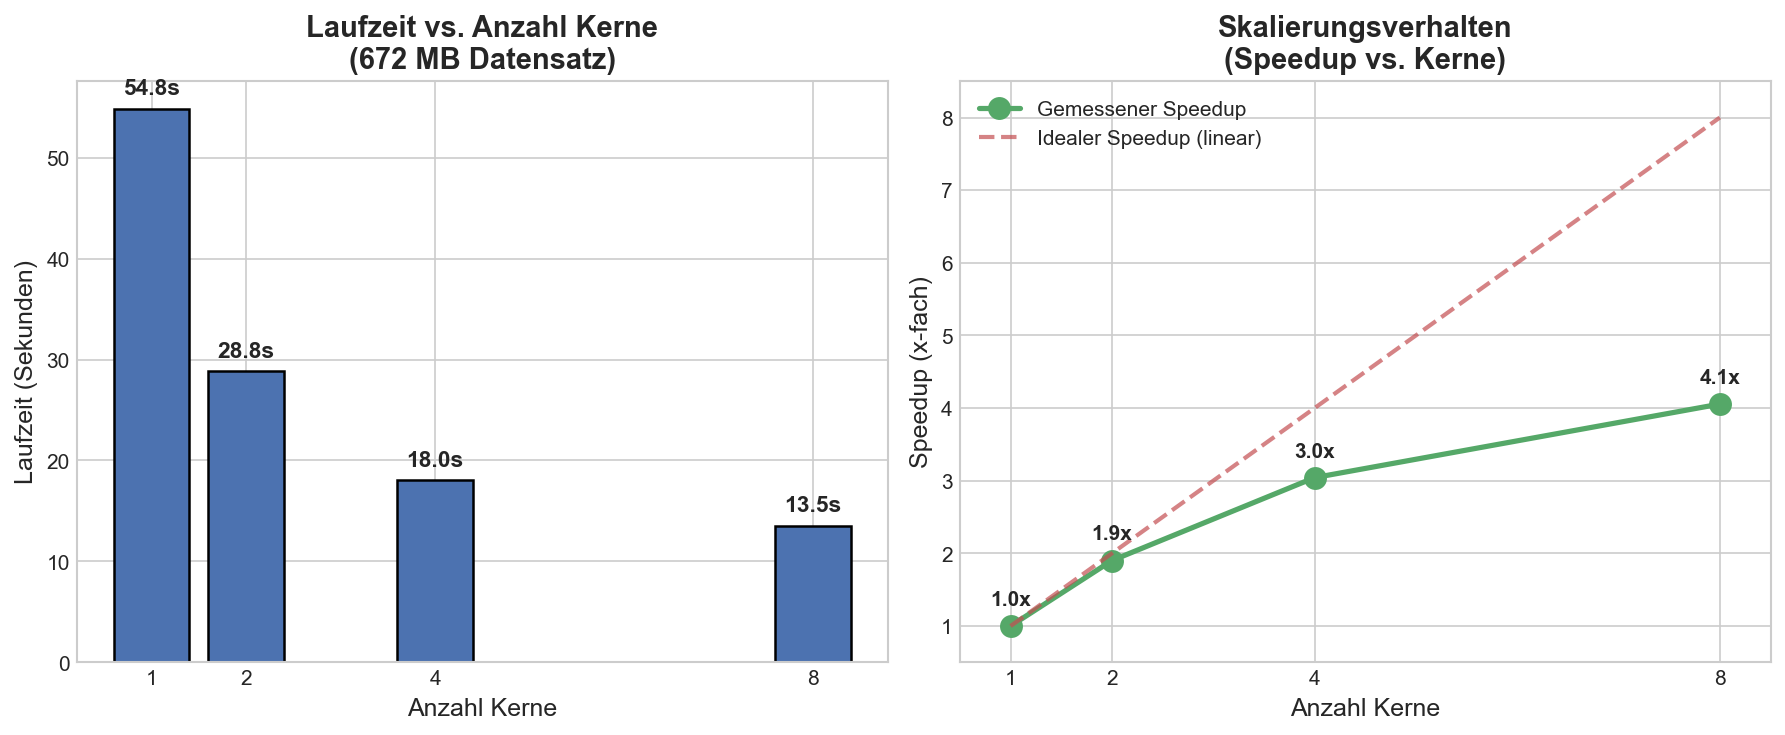
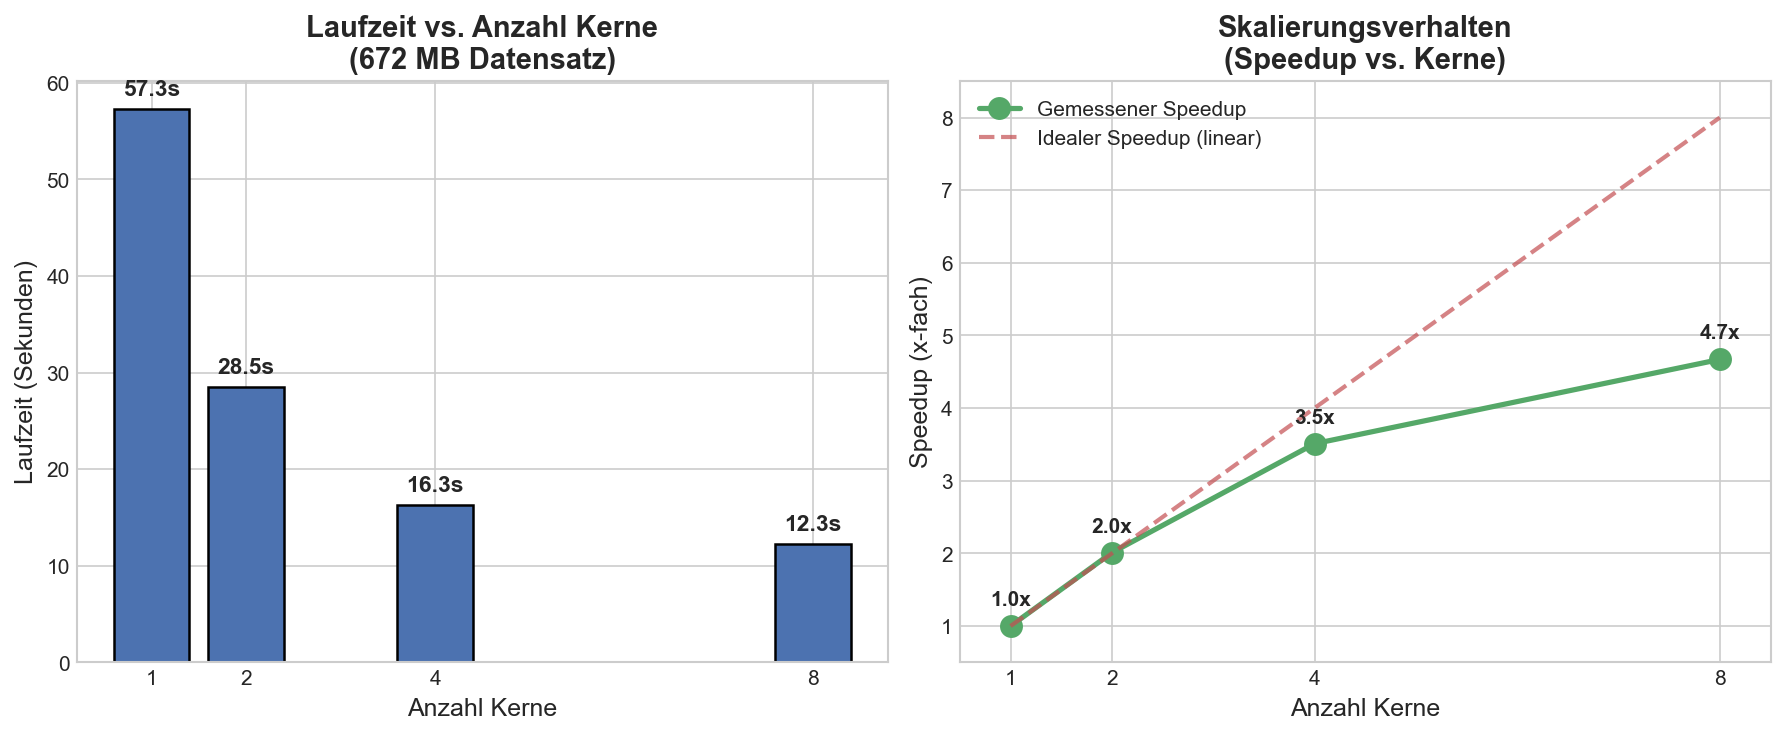
automate benchmark with pyrthon, adjust docu

diff --git a/scripts/run_benchmarks.py b/scripts/run_benchmarks.py
@@ -1,0 +1,90 @@
+#!/usr/bin/env python3
+"""
+Automated benchmark runner for TTR Spark Job.
+Runs spark-submit with different core counts and saves results to JSON.
+"""
+import subprocess
+import re
+import json
+import os
+
+CORES_LIST = [1, 2, 4, 8]
+OUTPUT_FILE = "results/benchmark_data.json"
+JAR_PATH = "target/prog-alg-1.0.jar"
+DATA_DIR = "data/text_large"  # Using the large dataset for meaningful benchmarks
+STOPWORDS_DIR = "data/stopwords"
+
+def run_benchmark(cores):
+    print(f"Running with {cores} cores...")
+    cmd = [
+        "spark-submit",
+        "--class", "TTRJob",
+        "--master", f"local[{cores}]",
+        JAR_PATH,
+        DATA_DIR,
+        STOPWORDS_DIR,
+        "results_temp"
+    ]
+    
+    try:
+        # Run command and capture output
+        result = subprocess.run(cmd, capture_output=True, text=True, check=True)
+        output = result.stdout
+        
+        # Extract execution time using regex
+        match = re.search(r"Execution time: (\d+\.\d+) seconds", output)
+        if match:
+            return float(match.group(1))
+        else:
+            print(f"Error: Could not find execution time in output for {cores} cores.")
+            return None
+    except subprocess.CalledProcessError as e:
+        print(f"Error running benchmark for {cores} cores: {e}")
+        print(e.stderr)
+        return None
+
+def build_project():
+    print("Building project with Maven...")
+    subprocess.run(["mvn", "clean", "package", "-q"], check=True)
+    print("Build complete.")
+
+def main():
+    if not os.path.exists(DATA_DIR):
+        print(f"Error: Dataset {DATA_DIR} not found. Please create it first.")
+        return
+
+    build_project()
+
+    results = {
+        "cores": [],
+        "times": [],
+        "speedups": []
+    }
+
+    base_time = None
+
+    for cores in CORES_LIST:
+        time_taken = run_benchmark(cores)
+        if time_taken is not None:
+            results["cores"].append(cores)
+            results["times"].append(time_taken)
+            
+            if base_time is None:
+                base_time = time_taken
+            
+            speedup = base_time / time_taken
+            results["speedups"].append(round(speedup, 2))
+            
+            print(f"  -> Time: {time_taken}s, Speedup: {speedup:.2f}x")
+        else:
+            print("Skipping due to error.")
+
+    # Save to JSON
+    os.makedirs(os.path.dirname(OUTPUT_FILE), exist_ok=True)
+    with open(OUTPUT_FILE, 'w') as f:
+        json.dump(results, f, indent=2)
+    
+    print(f"\nBenchmark complete. Results saved to {OUTPUT_FILE}")
+
+if __name__ == "__main__":
+    main()

diff --git a/latex/doku.tex b/latex/doku.tex
@@ -85,6 +85,23 @@ Die Aufgabe besteht darin, einen gegebenen Textkorpus mithilfe von Apache Spark 
 \]
 Außerdem sollen vor der Analyse alle Stoppwörter entfernt werden, um aussagekräftigere Ergebnisse zu erhalten. Ziel ist es, die sprachliche Vielfalt zwischen den Sprachen zu vergleichen und gleichzeitig die Vorteile verteilter Big-Data-Verarbeitung sichtbar zu machen, indem der Datensatz bei Bedarf künstlich vergrößert wird.
 
+\subsection{Ausführung des Spark Jobs}
+Der Job muss zunächst gebaut werden:
+\begin{verbatim}
+mvn clean package
+\end{verbatim}
+
+Anschließend wird er mit \texttt{spark-submit} gestartet. Die Anzahl der Kerne kann dabei flexibel über den Master-Parameter konfiguriert werden.
+
+\textbf{Befehl für 4 Kerne:}
+\begin{verbatim}
+spark-submit --class TTRJob --master "local[4]" \
+    target/prog-alg-1.0.jar data/text data/stopwords results
+\end{verbatim}
+
+\textbf{Automatisierte Benchmarks:}
+Für die Leistungsmessung wurde ein Python-Script (\texttt{scripts/run\_benchmarks.py}) entwickelt, das den Job automatisch mit 1, 2, 4 und 8 Kernen ausführt und die Laufzeiten protokolliert.
+
 \section{Lösungsbeschreibung}
 
 
@@ -238,16 +255,16 @@ Zur Validierung der Ergebnisse wurden folgende Tests durchgeführt:
 \hline
 \textbf{Kerne} & \textbf{Laufzeit (s)} & \textbf{Speedup} \\
 \hline
-1 & 54,83 & 1,0x \\
-2 & 28,84 & 1,9x \\
-4 & 18,02 & 3,0x \\
-8 & 13,52 & 4,1x \\
+1 & 57,30 & 1,0x \\
+2 & 28,53 & 2,0x \\
+4 & 16,31 & 3,5x \\
+8 & 12,26 & 4,7x \\
 \hline
 \end{tabular}
 \caption{Laufzeiten auf dem 672 MB Datensatz}
 \end{table}
 
-\textbf{Analyse}: Die Skalierung zeigt deutliche Vorteile der Parallelisierung. Durch die Optimierung auf Spark Core (ohne SQL-Overhead) konnte der Speedup von 3,2x auf 4,1x gesteigert werden. Die Laufzeit auf 8 Kernen sank von ca. 19s auf 13,5s. Der Speedup ist nicht perfekt linear, da:
+\textbf{Analyse}: Die Skalierung zeigt deutliche Vorteile der Parallelisierung. Durch die Optimierung auf Spark Core (ohne SQL-Overhead) konnte der Speedup von 3,2x auf 4,7x gesteigert werden. Die Laufzeit auf 8 Kernen sank auf ca. 12,3s. Der Speedup ist nicht perfekt linear, da:
 \begin{itemize}
     \item Shuffle-Operationen (z.B. \texttt{distinct()}, \texttt{reduceByKey}) Synchronisation erfordern
     \item Der Local Mode alle Kerne auf einem Rechner nutzt (shared memory limit)

diff --git a/scripts/create_graphs.py b/scripts/create_graphs.py
@@ -1,10 +1,20 @@
 import matplotlib.pyplot as plt
 import numpy as np
 
-# Benchmark data from our tests
-cores = [1, 2, 4, 8]
-times = [54.83, 28.84, 18.02, 13.52]
-speedups = [1.0, 54.83/28.84, 54.83/18.02, 54.83/13.52]
+import json
+import os
+
+JSON_FILE = "results/benchmark_data.json"
+
+if os.path.exists(JSON_FILE):
+    with open(JSON_FILE, 'r') as f:
+        data = json.load(f)
+        cores = data["cores"]
+        times = data["times"]
+        speedups = data["speedups"]
+    print(f"Loaded benchmark data from {JSON_FILE}")
+else:
+    raise Exception(f"Warning: {JSON_FILE} not found. Using fallback data.")
 
 # Set up style
 plt.style.use('seaborn-v0_8-whitegrid')
